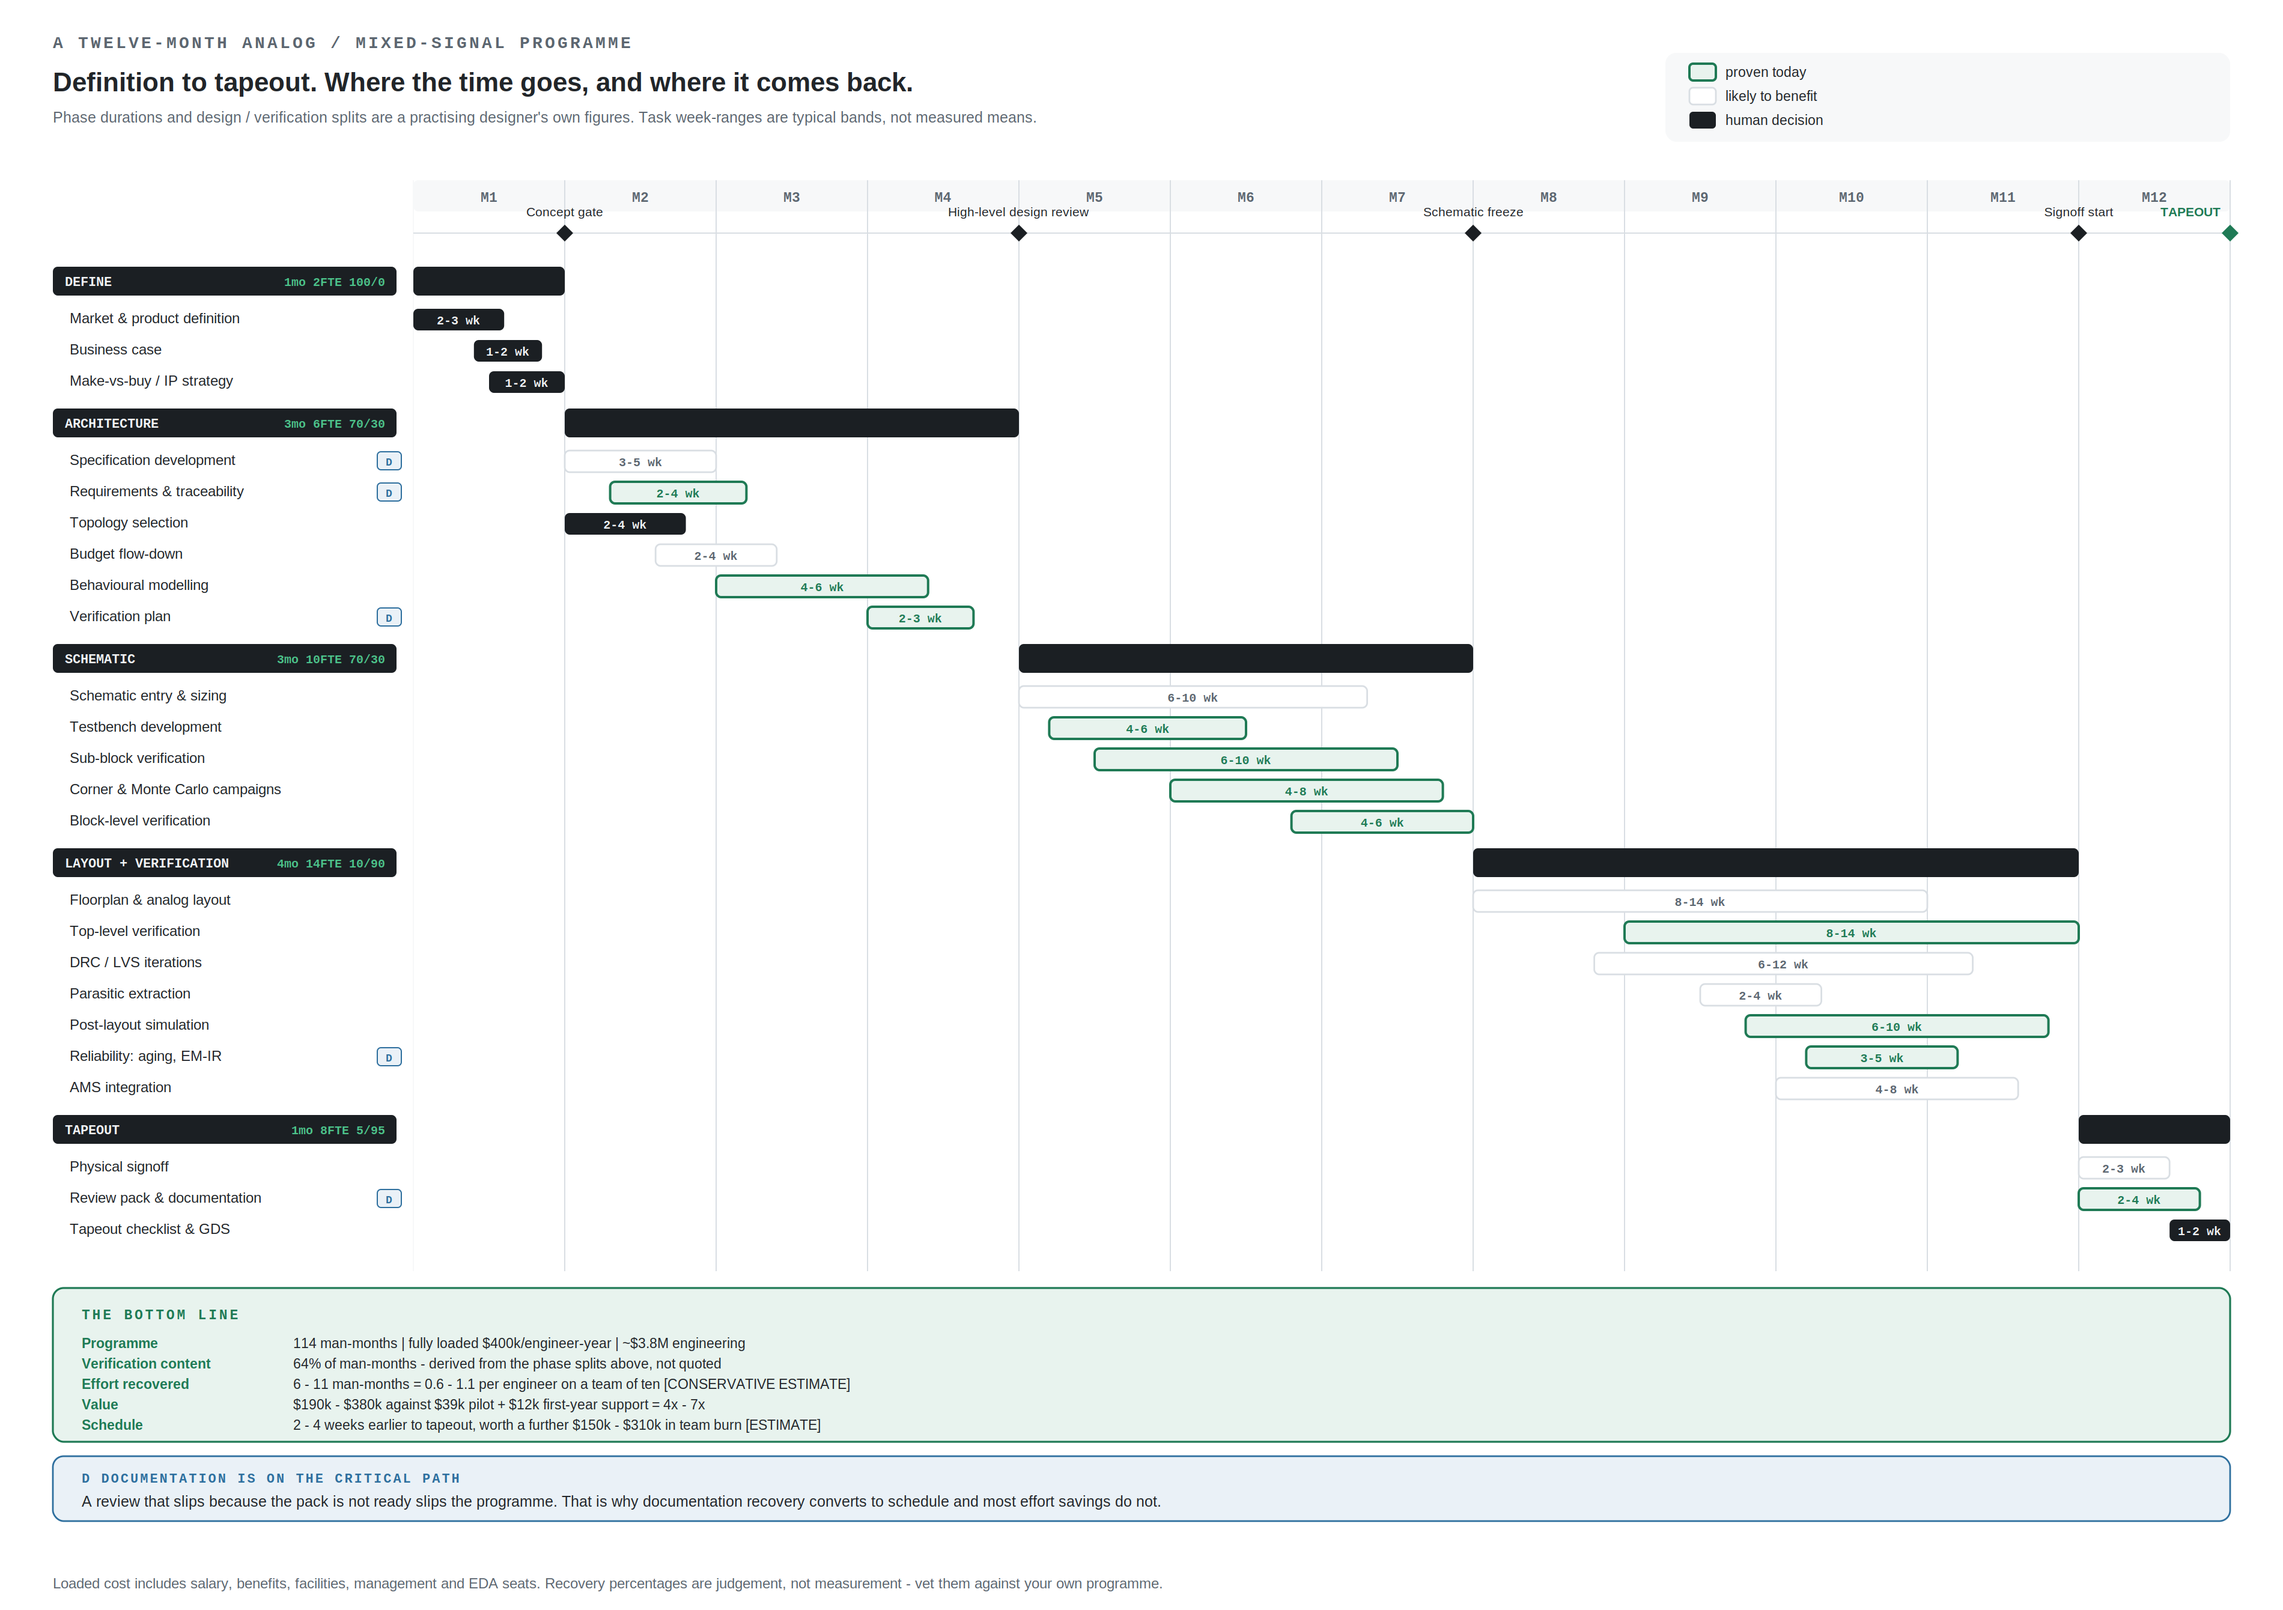
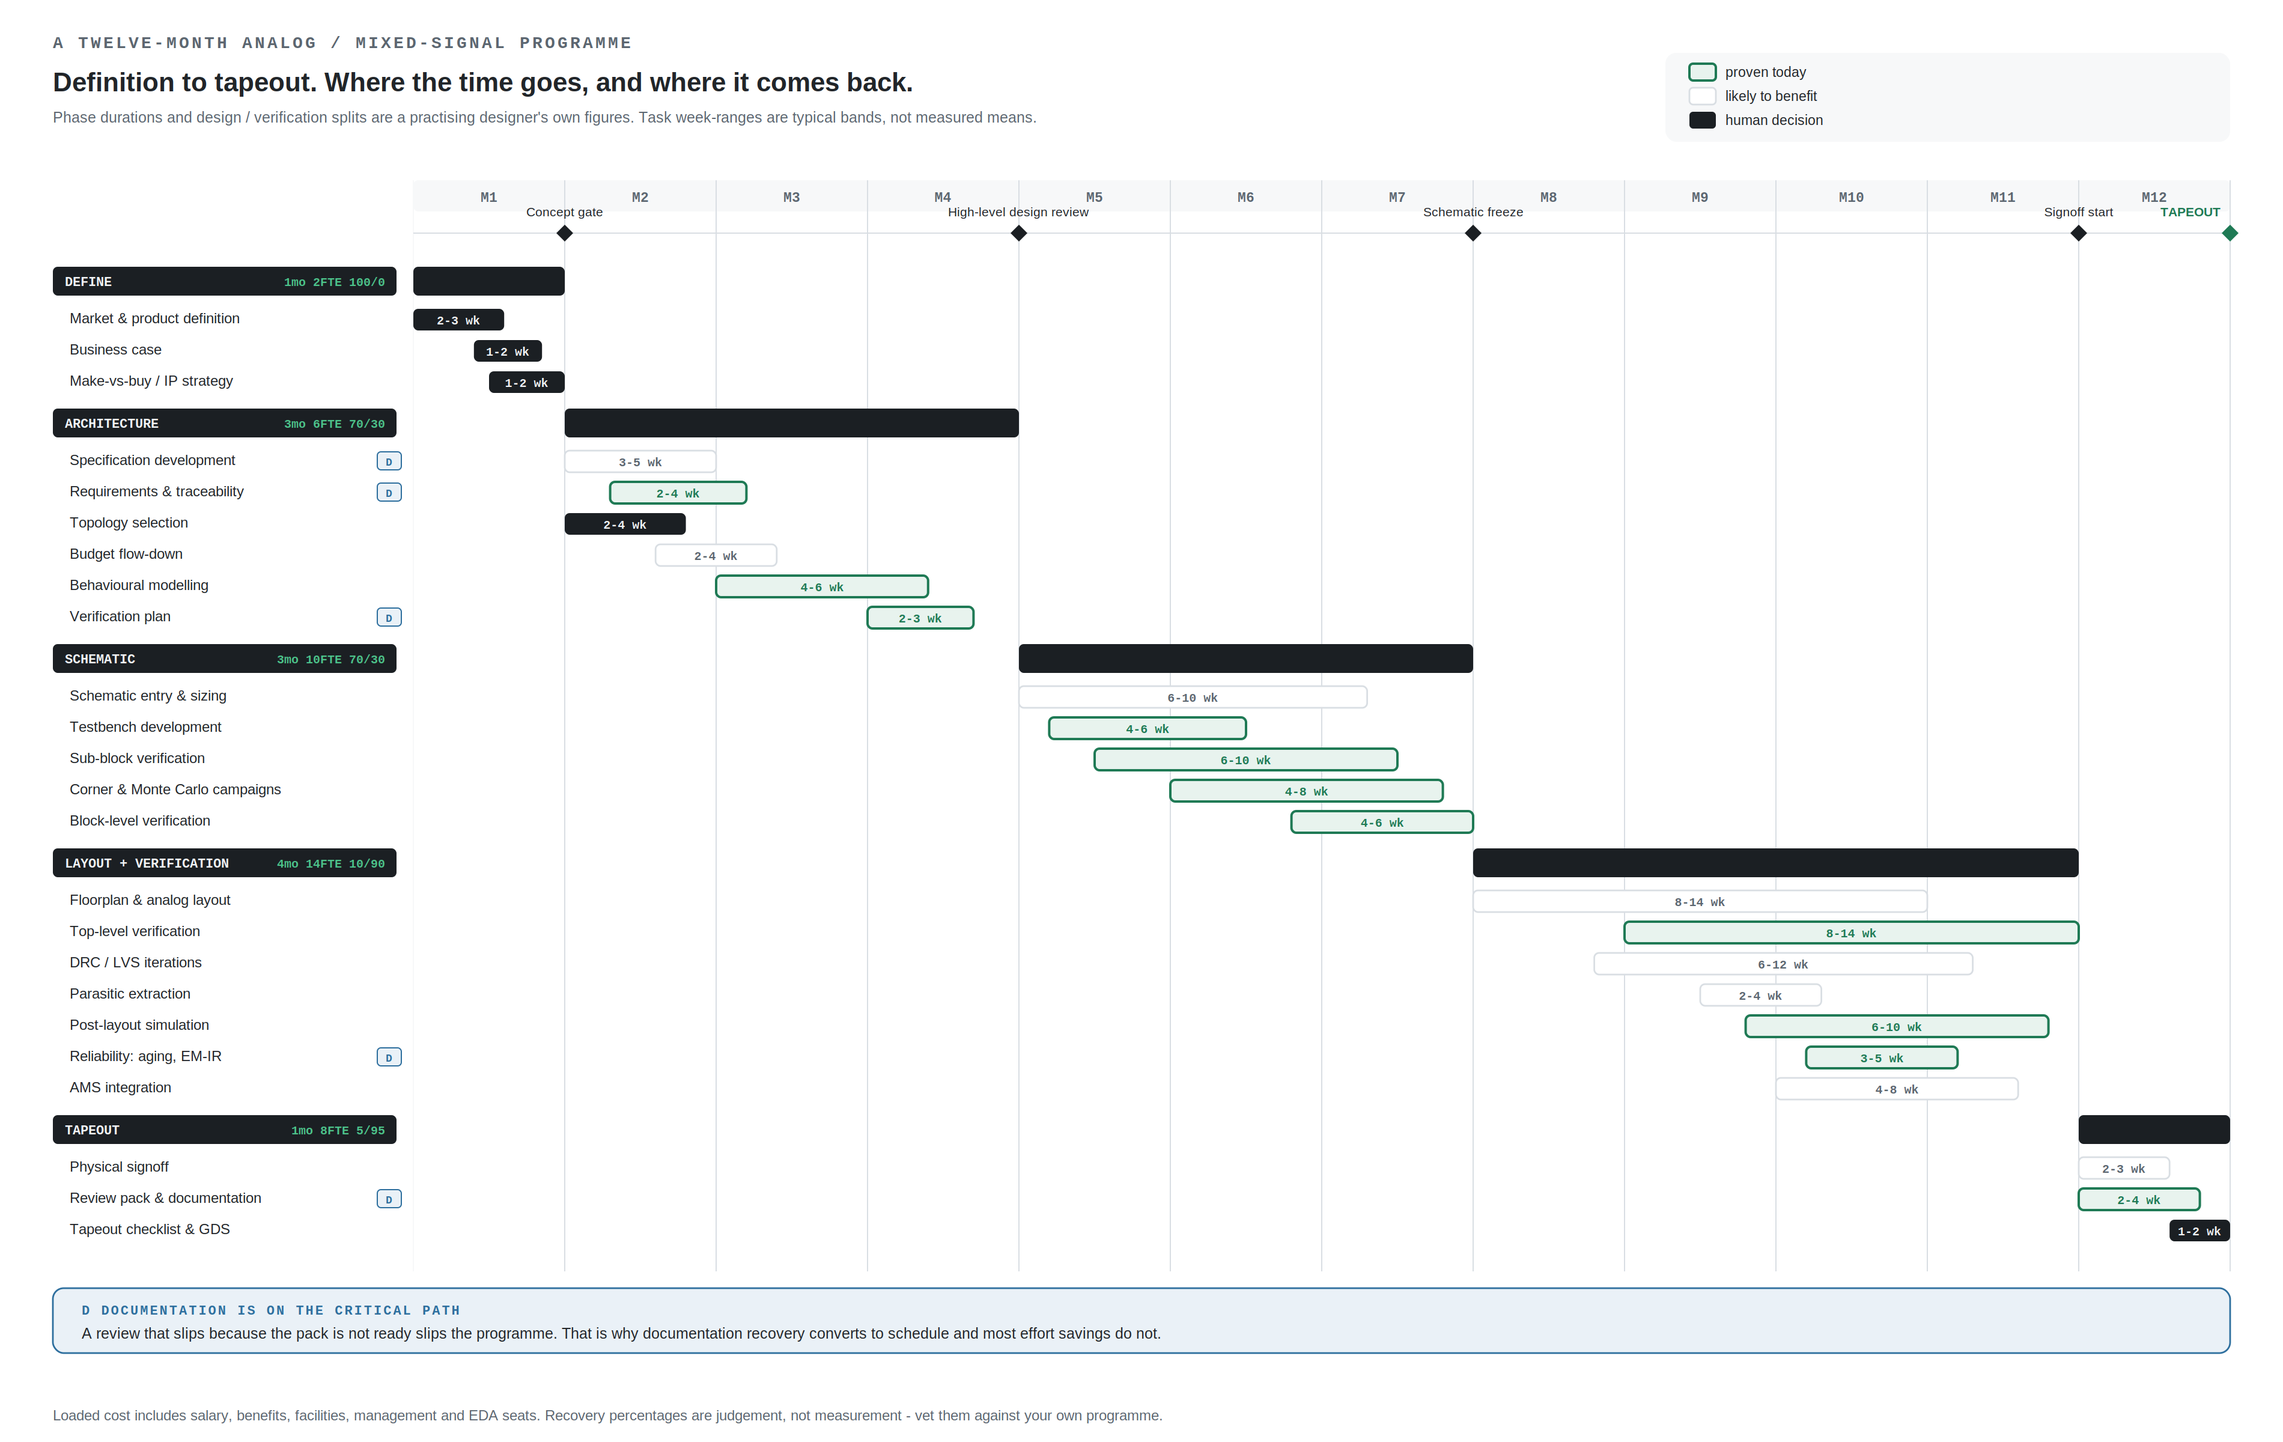
Month flat: a month earlier to tapeout; schedule image without the pilot panel
At Phil's ruling of 2026-11-05 07:16 ("month time savings to a month
flat") and his go at 07:19: the executive summary and home page say a
month earlier to tapeout. The tiles read 1 month and $310k (the table's
four-week figure), tagged ESTIMATE; the table keeps both columns and the
fine print names the conservative column, two weeks and $150,000.

The schedule image loses its bottom-line panel, which still carried the
withdrawn pilot comparison ($39k pilot + $12k support = 4x - 7x) and
2 - 4 weeks. Chart, documentation panel and footnote unchanged.
Applied by month_flat_2026-11-05.py, 10 asserted edits.

Claude-Session: https://claude.ai/code/session_015GseDaNsvCUYFpMckDubhu

diff --git a/executive-summary.html b/executive-summary.html
@@ -83,8 +83,8 @@ ul{padding-left:22px;margin:0 0 14px 0}li{margin:6px 0}
 </div>
 
 <div class="wrap" style="padding-top: 72px; padding-bottom: 48px">
-  <h1 style="font-size: 64px; max-width: 16ch">Two to four weeks earlier to tapeout.</h1>
-  <p class="prose" style="font-size: 21px; margin-top: 26px; color: #2A3A52">On a twelve-month analog or mixed-signal program, that is what the arithmetic supports, conservatively. The team cost that schedule gain avoids is $150,000 to $310,000, and the engineering effort recovered alongside it is worth more again.</p>
+  <h1 style="font-size: 64px; max-width: 16ch">A month earlier to tapeout.</h1>
+  <p class="prose" style="font-size: 21px; margin-top: 26px; color: #2A3A52">On a twelve-month analog or mixed-signal program, that is what I expect. The arithmetic below reaches four weeks with recovery rates I set deliberately low, and the team cost those four weeks avoid is $310,000. The engineering effort recovered alongside it is worth more again.</p>
   <p class="prose">Below is the whole case, the schedule it comes from, and the fine print. In that order, because the fine print is where the numbers get less flattering and you should see it.</p>
   <div style="display: flex; flex-wrap: wrap; gap: 14px; margin-top: 24px">
     <a class="btn" href="contact.html">Write to me</a>
@@ -96,9 +96,9 @@ ul{padding-left:22px;margin:0 0 14px 0}li{margin:6px 0}
   <div class="wrap" style="padding-top: 44px; padding-bottom: 44px">
     <div class="readout">
       <div class="ro">
-        <div class="n">2 to 4 weeks</div>
-        <div class="l">schedule pulled in, on a twelve-month program, conservative to upper</div>
-        <span class="tag t-est">CONSERVATIVE ESTIMATE</span>
+        <div class="n">1 month</div>
+        <div class="l">schedule pulled in on a twelve-month program, the upper column of the model below</div>
+        <span class="tag t-est">ESTIMATE</span>
       </div>
       <div class="ro">
         <div class="n">6 to 11</div>
@@ -106,9 +106,9 @@ ul{padding-left:22px;margin:0 0 14px 0}li{margin:6px 0}
         <span class="tag t-est">CONSERVATIVE ESTIMATE</span>
       </div>
       <div class="ro">
-        <div class="n">$150k to $310k</div>
-        <div class="l">team burn avoided by the schedule gain alone, inside one program</div>
-        <span class="tag t-est">CONSERVATIVE ESTIMATE</span>
+        <div class="n">$310k</div>
+        <div class="l">team burn avoided by four weeks of schedule alone, inside one program</div>
+        <span class="tag t-est">ESTIMATE</span>
       </div>
     </div>
   </div>
@@ -141,7 +141,7 @@ ul{padding-left:22px;margin:0 0 14px 0}li{margin:6px 0}
       <p>Layout and verification is 56 of the 114 man-months and runs at 90 % verification. That is simultaneously the largest pool of effort and the one most exposed to scripted campaigns, regression management and generated reporting. It is also why the work should land before that phase rather than during it.</p>
     </div>
   </div>
-  <img class="fig" style="margin-top: 32px" src="assets/schedule-12-month.png" alt="Twelve-month schedule, five phases and twenty-four tasks with week ranges, milestones, and the bottom-line panel">
+  <img class="fig" style="margin-top: 32px" src="assets/schedule-12-month.png" alt="Twelve-month schedule, five phases and twenty-four tasks with week ranges and milestones, with documentation marked as the critical path">
 </div>
 
 <div class="band2">
@@ -278,6 +278,7 @@ ul{padding-left:22px;margin:0 0 14px 0}li{margin:6px 0}
     <p><strong>The recovery percentages are my judgement, not a measurement.</strong> Three to seven per cent of architecture effort, five to ten per cent of schematic and backend, ten to eighteen per cent of tapeout. I set them deliberately low. They are the single largest source of error in the numbers above, and I would rather be beaten by the result than have to defend it.</p>
     <p><strong>There is almost no published data on how long analog design steps take.</strong> I went looking. The industry has good independent data on digital verification effort and top-down cost models, and essentially nothing on per-step analog engineering time. The layout-versus-schematic effort ratio everyone quotes traces to no survey at all. So the twelve-month program above is a practising designer's own figures, not a published mean, and your program is not that program.</p>
     <p><strong>Effort saved is not schedule saved.</strong> Only the part on the critical path moves the date. I have assumed roughly a third of the recovery lands there and divided by the engineers carrying it. Reasonable, arguable, and not measured.</p>
+    <p><strong>The month is the upper column.</strong> The headline and the tiles use the upper column of the table under What comes back. The conservative column is two weeks of schedule and $150,000 of team burn. A month is what I expect, and it is not measured.</p>
     <p><strong>The loaded cost of $400,000 is an assumption.</strong> Salary plus roughly equal overhead, including EDA seats. If your loaded figure is $300,000, every dollar number above drops by a quarter. Substitute your own.</p>
     <p><strong>The hour per wrong answer is an assumption.</strong> The accuracy section above prices each wrong answer that people have to find at one engineer-hour. Some take minutes, and one that reaches silicon costs a respin. Every dollar figure there scales with the hour you substitute.</p>
     <p><strong>No before-and-after baseline exists yet.</strong> The worked examples on this site were built with the practice already in place, so nothing here measures a team before and after. The measured assessment measures your baseline on your own tasks, so any follow-on has something real to compare against. That measurement is yours to keep whether or not you continue.</p>

diff --git a/index.html b/index.html
@@ -90,7 +90,7 @@ ul{padding-left:22px;margin:0 0 14px 0}li{margin:6px 0}
   <h1 style="font-size: 58px; max-width: 26ch">AI tools for analog and mixed-signal design teams, deployed into your own flow.</h1>
   <p class="prose" style="font-size: 21px; margin-top: 26px; color: #2A3A52">Nothing a model produces is acted on until a deterministic check has passed it. The tools change how much one engineer can run and check. They do not change who decides.</p>
   <p class="prose" style="font-size: 19px; font-weight: 500; margin-top: 18px">Every engagement starts with a two-week measured assessment of your own tasks, $7,500 fixed and remote. What follows is scoped and priced from what it finds, for one team or many.</p>
-  <p class="prose" style="margin-top: 6px"><span class="tag t-est">CONSERVATIVE ESTIMATE</span> Two to four weeks earlier to tapeout on a twelve-month program. <a href="executive-summary.html">The executive summary works it through.</a></p>
+  <p class="prose" style="margin-top: 6px"><span class="tag t-est">ESTIMATE</span> A month earlier to tapeout on a twelve-month program. <a href="executive-summary.html">The executive summary works it through.</a></p>
   <div style="display: flex; flex-wrap: wrap; gap: 14px; margin-top: 28px">
     <a class="btn" href="contact.html">Write to me</a>
     <a class="btn2" href="executive-summary.html">Read the executive summary</a>
@@ -194,10 +194,10 @@ ul{padding-left:22px;margin:0 0 14px 0}li{margin:6px 0}
   <div style="border-top: 1px solid #C9D3DF; padding-top: 32px">
     <div class="cols">
       <div>
-        <h2 style="font-size: 34px; max-width: 18ch">Two to four weeks earlier to tapeout, on a twelve-month program.</h2>
+        <h2 style="font-size: 34px; max-width: 18ch">A month earlier to tapeout, on a twelve-month program.</h2>
       </div>
       <div class="prose">
-        <p>The team cost that schedule gain avoids is $150,000 to $310,000 on that program, and the effort recovered alongside it is worth more again. The case, the schedule it comes from, and the fine print, in that order.</p>
+        <p>On that program, four weeks of team cost is $310,000, and the effort recovered alongside it is worth more again. The case, the schedule it comes from, and the fine print, in that order.</p>
         <p><a href="executive-summary.html">Read the executive summary</a></p>
       </div>
     </div>
